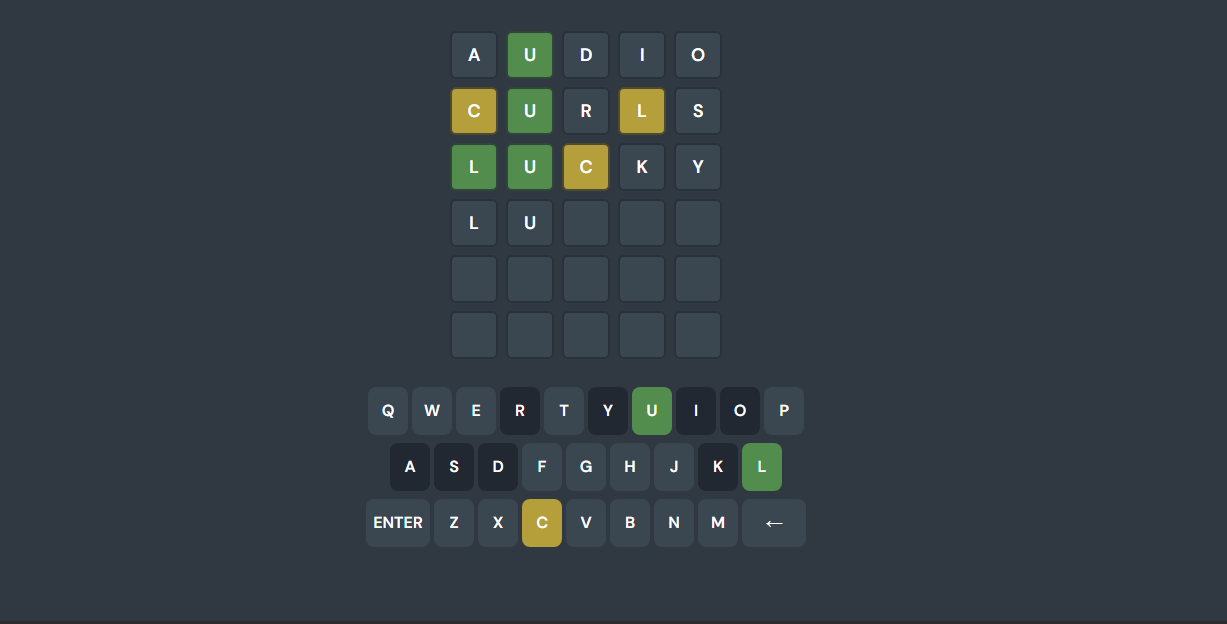
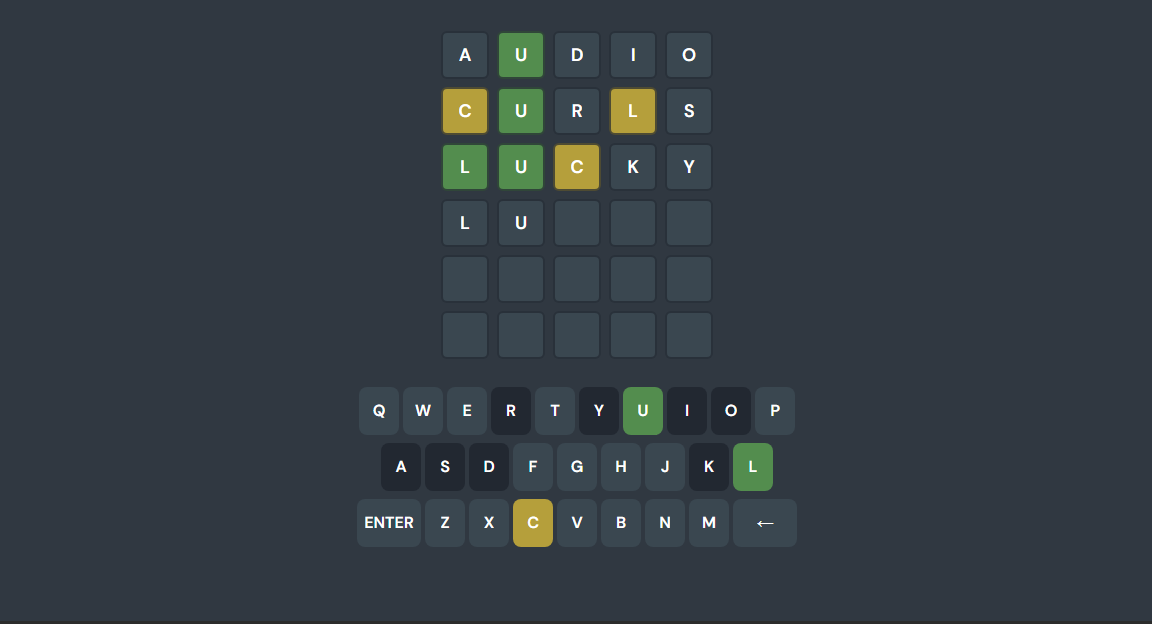
fix: center the image

diff --git a/src/components/wordle-home.tsx b/src/components/wordle-home.tsx
@@ -27,7 +27,7 @@ export function WordleHome() {
           alt="hero"
           height={720}
           width={1400}
-          className="mx-auto rounded-2xl object-cover h-full "
+          className="mx-auto rounded-2xl object-center object-cover h-full "
           draggable={false}
         />
       </ContainerScroll>
